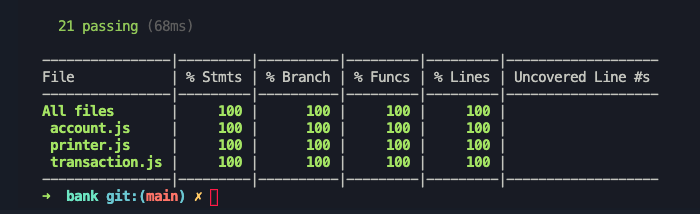
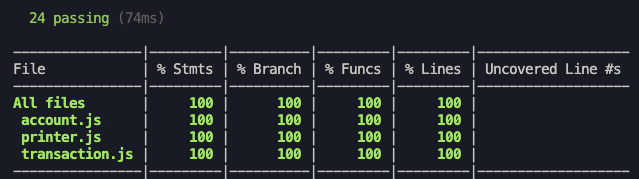
Replace code coverage image with up to date stats

Changed region(s): [[0.0, 0.2514, 0.9812, 1.0], [0.0297, 0.0559, 0.2973, 0.1676]]

diff --git a/README.md b/README.md
@@ -140,8 +140,6 @@ Design
 
 #### Testing
 
-![test-coverage](images/test-coverage.png)
-
 - TDD:
   - Emphasis on behaviour driven development
   - Automated feature tests
@@ -149,13 +147,13 @@ Design
   - Acceptance criteria met and edge cases covered
   - Red - Green - Commit - Refactor - Commit
 - Test Coverage: 100% (measured using `nyc` / `istanbul`)
-- Testing framework: `Mocha`
-- Mocks and stubs:
-  - Date mocked with `MockDate`
-  - `sinon` to stub functions in class depencies
-  - `sinon` to stub console.log
 
-*e.g.*
+![test-coverage](images/test-coverage.png)
+
+- Testing framework: `Mocha`
+- Mocking and stubbing:
+  - Date mocked with `MockDate`
+  - `sinon` to stub functions in class depencies and console.log
 
 ```js
 beforeEach(() => {
